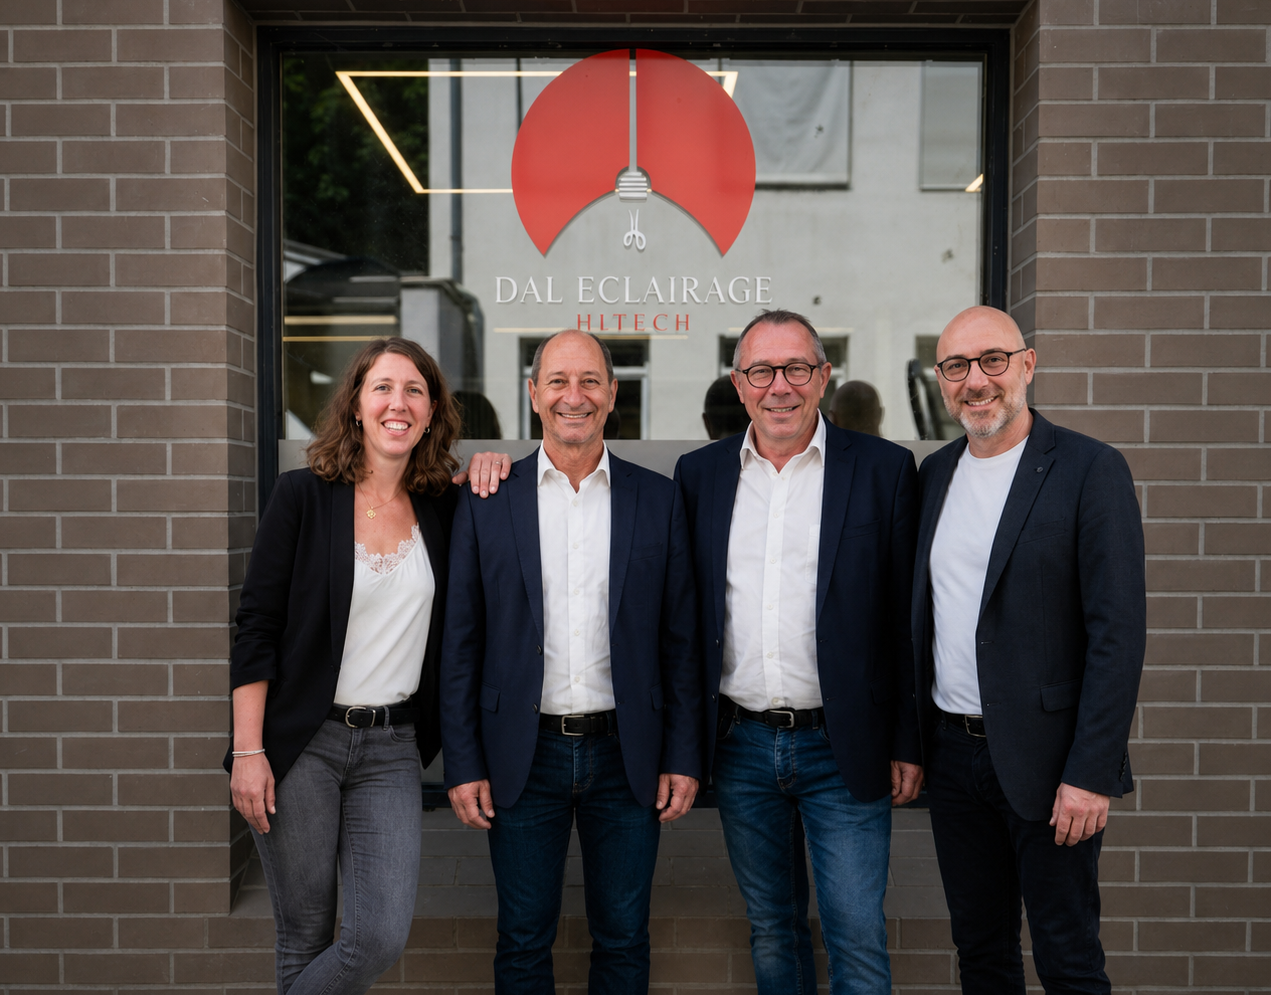
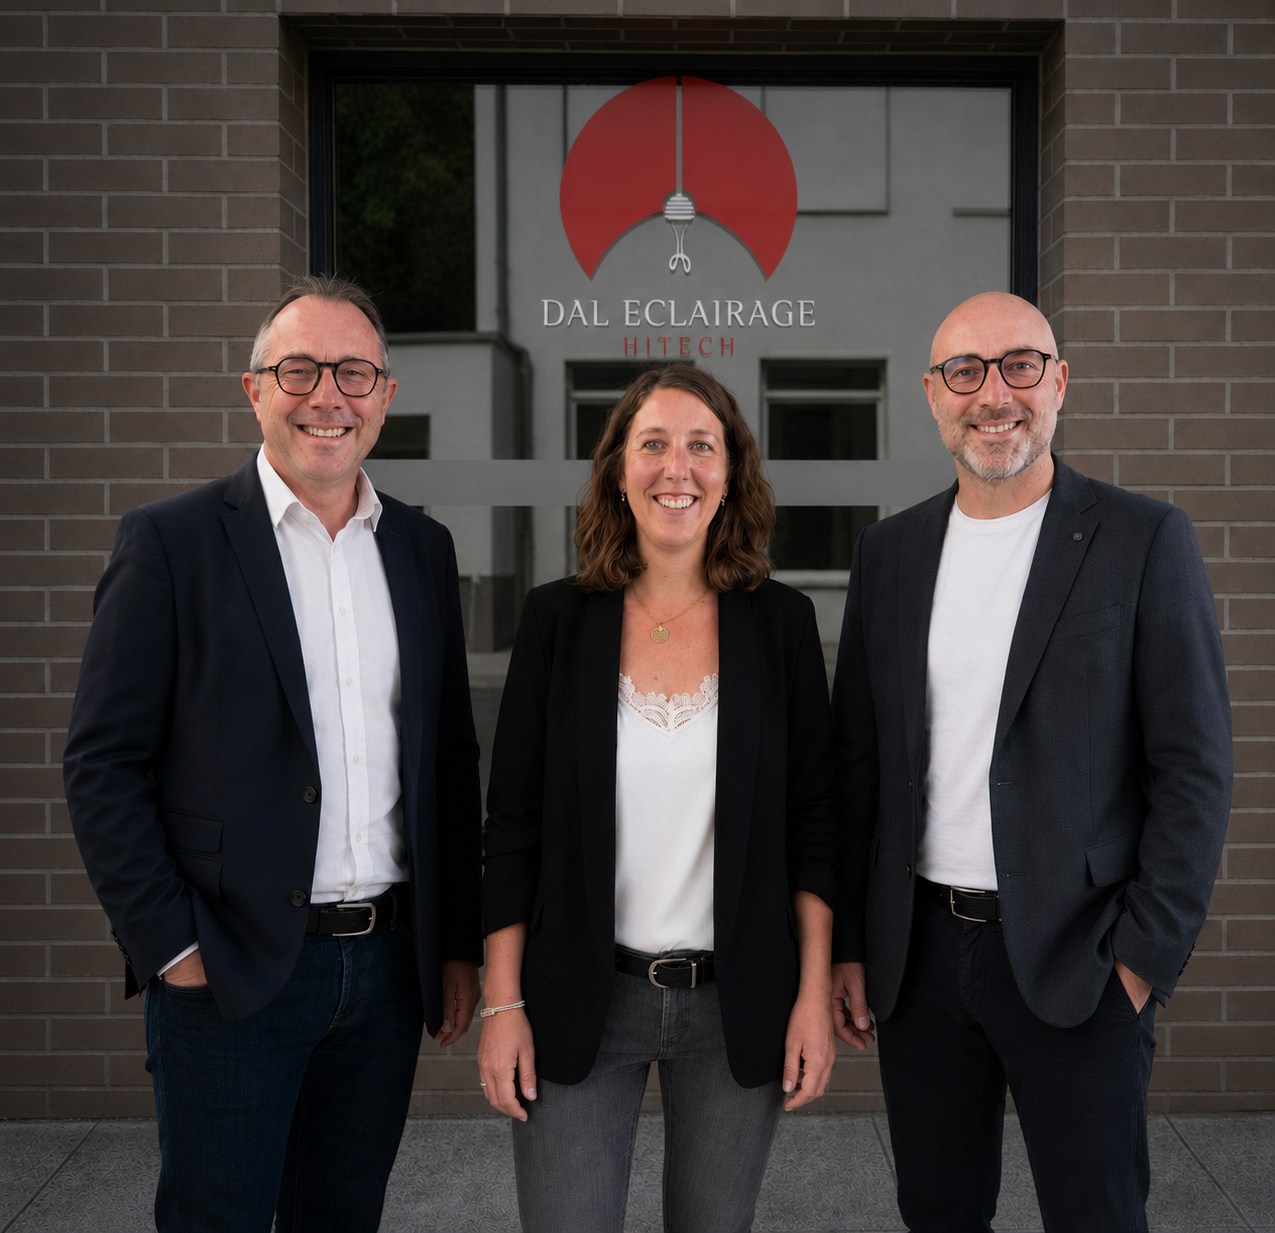
quiatr una persona

diff --git a/lib/societe-media.ts b/lib/societe-media.ts
@@ -12,45 +12,56 @@ export type SocieteValeur = {
 export { societeHeroVideoSrc } from "@/lib/secciones-media";
 
 /** Valeurs + vidéos — `public/videos/societe/valeurs/` */
+const societeValeursMediaVersion = "v=2";
+
+const valeurVideo = (file: string) =>
+  `/videos/societe/valeurs/${file}?${societeValeursMediaVersion}`;
+
 export const societeValeurs: SocieteValeur[] = [
   {
     titre: "Échange sincère et durable",
-    videoSrc: "/videos/societe/valeurs/workinprogress1.mp4",
+    videoSrc: valeurVideo("workinprogress1.mp4"),
   },
   {
     titre: "Accompagnement de proximité",
-    videoSrc: "/videos/societe/valeurs/workinprogress3.mp4",
+    videoSrc: valeurVideo("workinprogress2.mp4"),
   },
   {
     titre: "Expérience technique",
-    videoSrc: "/videos/societe/valeurs/workinprogress2.mp4",
+    videoSrc: valeurVideo("workinprogress3.mp4"),
   },
 ];
+
+/** Incrémenter après remplacement d'un fichier (même nom) pour forcer le rechargement. */
+const societeEquipeMediaVersion = "v=5";
+
+const equipePhoto = (file: string) =>
+  `/images/equipe/${file}?${societeEquipeMediaVersion}`;
 
 /** Photos bloc « Histoire » — démo client (sélecteur adaptatif). */
 export const societeHistoireSlides: AdaptivePhotoSlide[] = [
   {
-    src: "/images/equipe/equipo5.png",
-    width: 1024,
-    height: 992,
+    src: equipePhoto("equipo5.png"),
+    width: 1274,
+    height: 1234,
     label: "Équipe — atelier",
   },
   {
-    src: "/images/equipe/equipo2.jpg",
-    width: 832,
-    height: 1024,
+    src: equipePhoto("equipo2.png"),
+    width: 1131,
+    height: 1391,
     label: "Équipe — plans et luminaires",
   },
   {
-    src: "/images/equipe/equipo3.jpg",
-    width: 1024,
+    src: equipePhoto("equipo3.png"),
+    width: 1040,
     height: 992,
     label: "Équipe — showroom",
   },
   {
-    src: "/images/equipe/equipo6.jpg",
-    width: 819,
-    height: 1024,
+    src: equipePhoto("equipo7.png"),
+    width: 1040,
+    height: 992,
     label: "Équipe — étude de projet",
   },
 ];

diff --git a/lib/home-team.ts b/lib/home-team.ts
@@ -5,19 +5,34 @@ export type HomeTeamSlide = {
   label: string;
 };
 
-/** Photos de groupe — accueil, section « Notre staff » (démo client). */
+/** Incrémenter après remplacement d'un fichier (même nom) pour forcer le rechargement. */
+const homeTeamMediaVersion = "v=7";
+
+/** Photos de groupe — accueil, section « Notre staff ». */
 export const homeTeamSlides: HomeTeamSlide[] = [
   {
-    src: "/images/equipe/equipo1.png",
-    width: 1536,
-    height: 1024,
+    src: `/images/equipe/equipo1.png?${homeTeamMediaVersion}`,
+    width: 1537,
+    height: 1023,
     label: "Équipe — vue horizontale",
   },
   {
-    src: "/images/equipe/equipo11.png",
-    width: 1271,
-    height: 995,
+    src: `/images/equipe/equipo11.png?${homeTeamMediaVersion}`,
+    width: 1275,
+    height: 1233,
     label: "Équipe — devant la boutique",
+  },
+  {
+    src: `/images/equipe/equipo12.png?${homeTeamMediaVersion}`,
+    width: 1535,
+    height: 1024,
+    label: "Équipe — intérieur showroom",
+  },
+  {
+    src: `/images/equipe/equipo13.png?${homeTeamMediaVersion}`,
+    width: 1536,
+    height: 1024,
+    label: "Équipe — devant l'entrée",
   },
 ];
 

diff --git a/lib/societe-data.ts b/lib/societe-data.ts
@@ -84,25 +84,4 @@ export const equipe: Membre[] = [
     seed: "dal-team-alain-knaub",
     photoDefault: "portrait",
   },
-  {
-    nom: "[Nom — à compléter]",
-    photos: [
-      {
-        src: "/images/equipe/dalaveclogo.jpg?v=2",
-        width: 720,
-        height: 1280,
-        label: "[Nom — à compléter] — avec logo DAL",
-        objectPosition: "50% 28%",
-      },
-      {
-        src: "/images/equipe/DAL.png",
-        width: 845,
-        height: 1024,
-        label: "[Nom — à compléter]",
-      },
-    ],
-    bio: "[Présentation — à compléter]",
-    seed: "dal-team-membre-4",
-    photoDefault: "avecLogo",
-  },
 ];

diff --git a/lib/secciones-media.ts b/lib/secciones-media.ts
@@ -32,8 +32,11 @@ export type SeccionHeroConfig =
   | { mode: "carousel"; slides: SeccionCarouselSlide[] }
   | { mode: "videoCarousel"; slides: SeccionVideoSlide[] };
 
+/** Incrémenter après remplacement d'un fichier (même nom) pour forcer le rechargement. */
+const seccionMediaVersion = "v=4";
+
 const f = (section: SeccionId, file: string) =>
-  encodeURI(`${seccionFolders[section]}/${file}`);
+  `${encodeURI(`${seccionFolders[section]}/${file}`)}?${seccionMediaVersion}`;
 
 /**
  * Médias actifs par page — à mettre à jour quand vous déposez dans secciones/.

diff --git a/app/societe/page.tsx b/app/societe/page.tsx
@@ -79,7 +79,7 @@ export default function SocietePage() {
             title="Les visages de DAL"
             lead="Notre équipe met à disposition son savoir-faire technique afin d'assurer la réussite de chacun de vos projets, de la phase d'étude à la livraison des produits."
           />
-          <div className="mt-14 grid gap-10 sm:grid-cols-2 lg:grid-cols-4">
+          <div className="mt-14 grid gap-10 sm:grid-cols-2 lg:grid-cols-3">
             {equipe.map((m) => (
               <article key={m.seed} className="flex h-full flex-col border border-line bg-white shadow-sm">
                 {m.photos?.length ? (